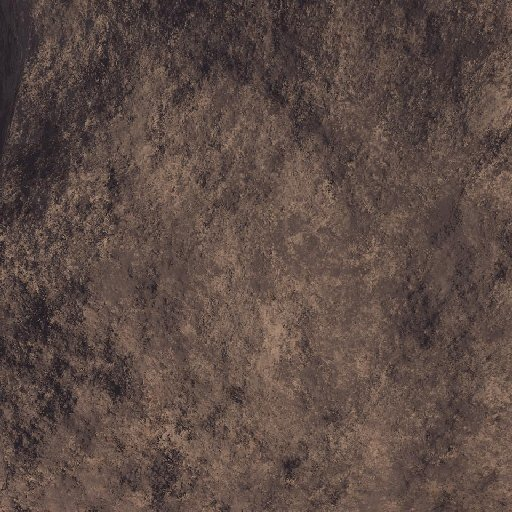
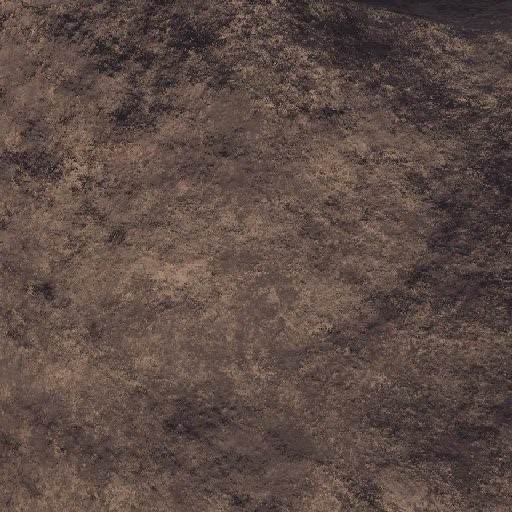
Skybox fix planes :heavy_plus_sign:

diff --git a/QT3DModelViewer/myopenglwidget.cpp b/QT3DModelViewer/myopenglwidget.cpp
@@ -650,7 +650,7 @@ void MyOpenGLWidget::RenderSkybox()
 
         QString paths[6];
         paths[0] = "/Skyboxes/sor_land/land_rt.JPG";
-        paths[1] = "/Skyboxes/sor_land/land_up1.JPG";
+        paths[1] = "/Skyboxes/sor_land/land_up.JPG";
         paths[2] = "/Skyboxes/sor_land/land_bk.JPG";
         paths[3] = "/Skyboxes/sor_land/land_lf.JPG";
         paths[4] = "/Skyboxes/sor_land/land_dn.JPG";
